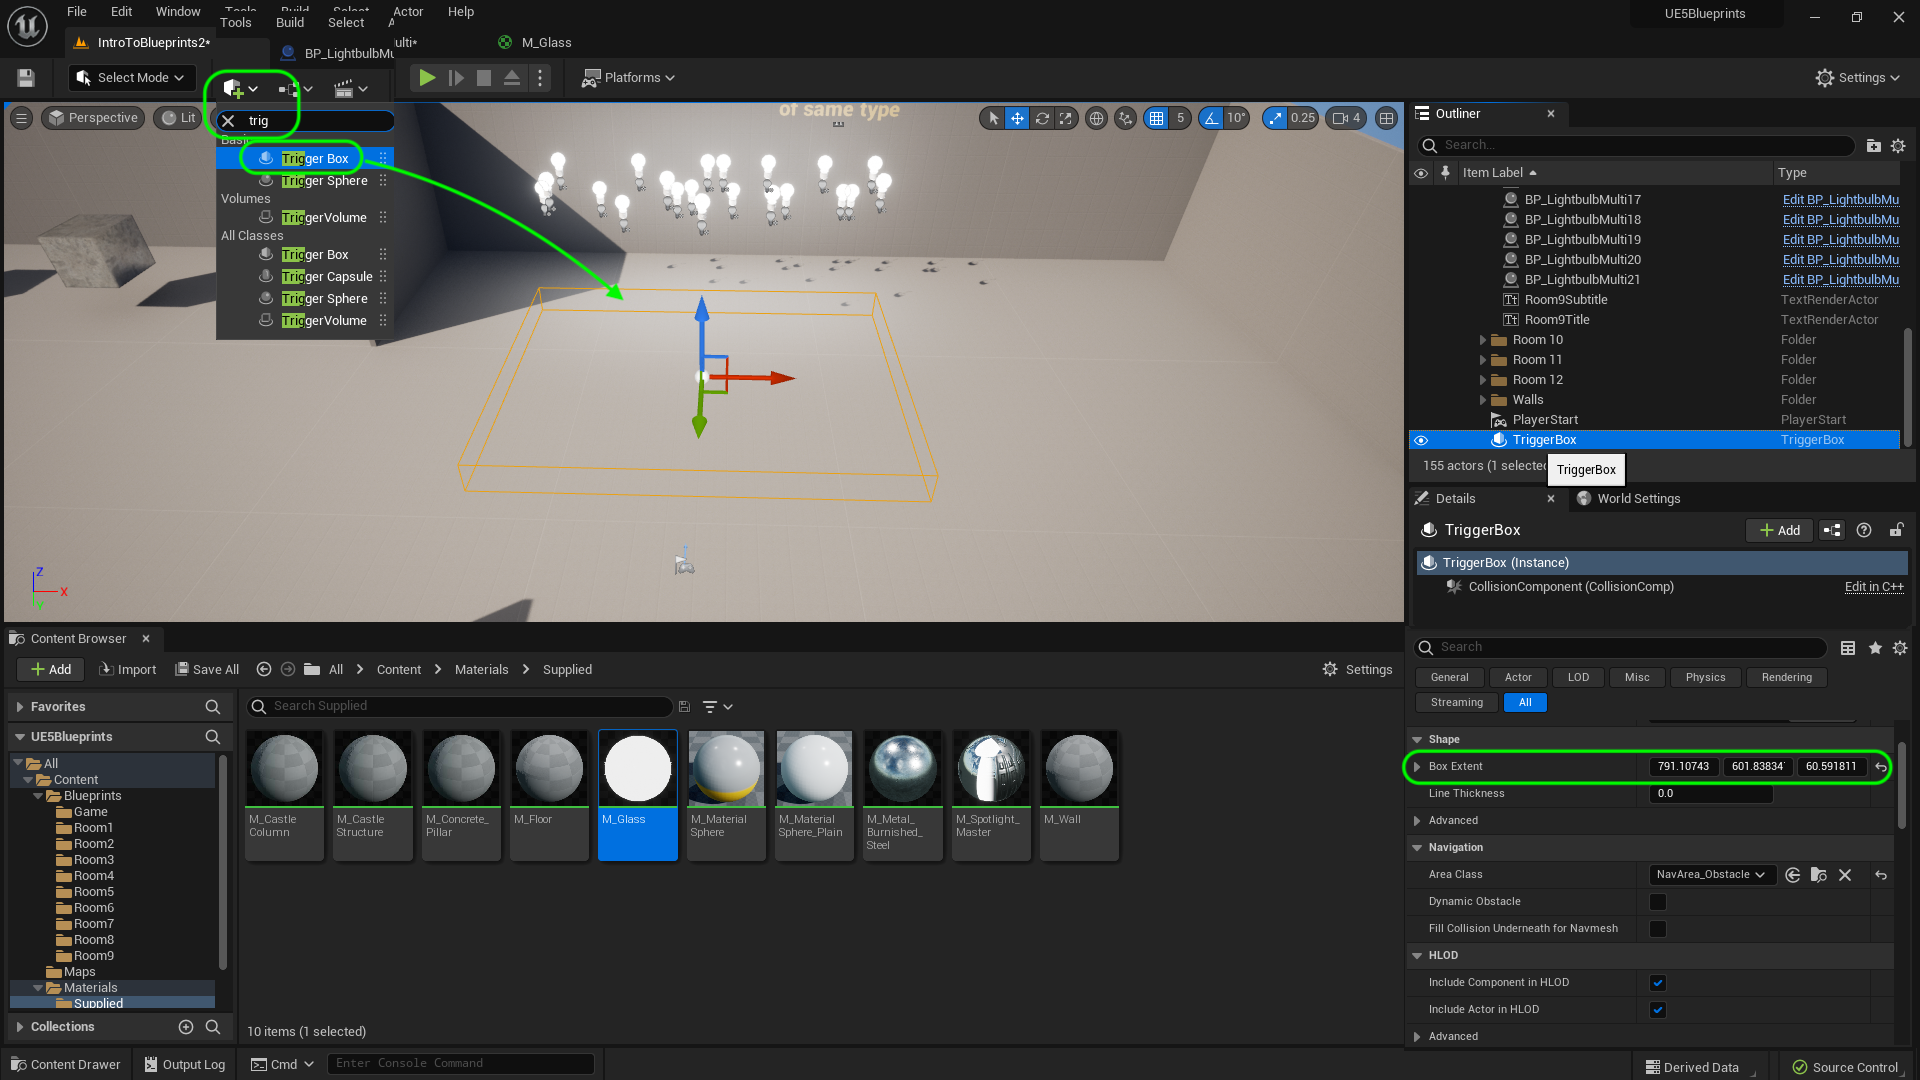
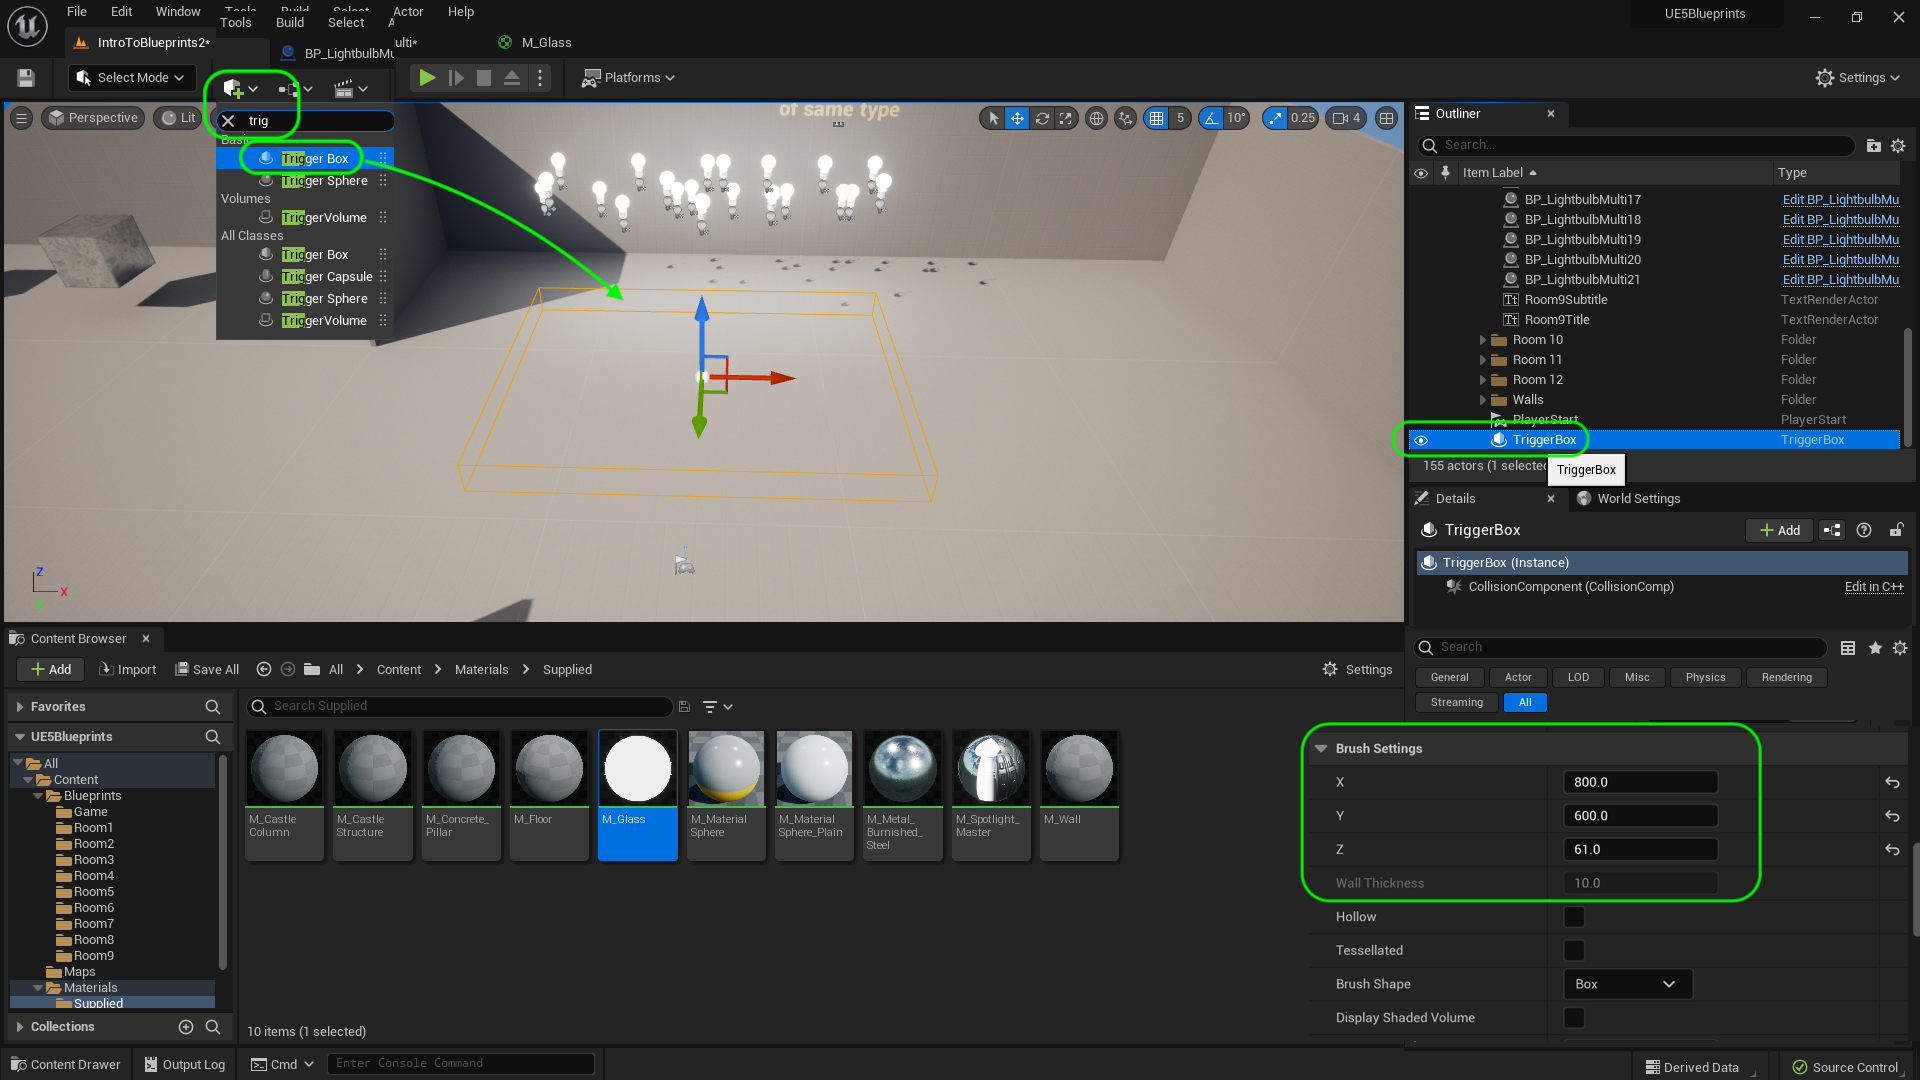
Update to Unreal 5.2

Changed region(s): [[0.6875, 0.6417, 1.0, 0.9472], [0.7188, 0.3667, 0.8438, 0.4278]]

diff --git a/multiple-actors/README.md b/multiple-actors/README.md
@@ -177,7 +177,7 @@ https://user-images.githubusercontent.com/5504953/193463571-230468da-1461-4a73-b
 
 ##### `Step 20.`\|`ITB`| :large_blue_diamond: :large_blue_diamond:
 
-In previous rooms we have put the trigger volume in the blueprint. In most cases we would have a trigger volume set in the level as it is always in a different place in the level and can sometimes control more than one blueprint. Go to **Volumes** and *drag* a **Trigger Volume** into the level. *Scale* it to add a box in front of the ligths so the player can walk into and out of it to trigger a lights on / lights off event.  Change the **Box Extents** to `800`, `600` by `61`.
+In previous rooms we have put the trigger volume in the blueprint. In most cases we would have a trigger volume set in the level as it is always in a different place in the level and can sometimes control more than one blueprint. Go to **Volumes** and *drag* a **Trigger Volume** into the level. *Scale* it to add a box in front of the ligths so the player can walk into and out of it to trigger a lights on / lights off event.  Change the **Brush Settings** to `800`, `600` by `61`.
 
 ![add trigger volume to level](images/UseLevelTriggerVolume.png)
 
